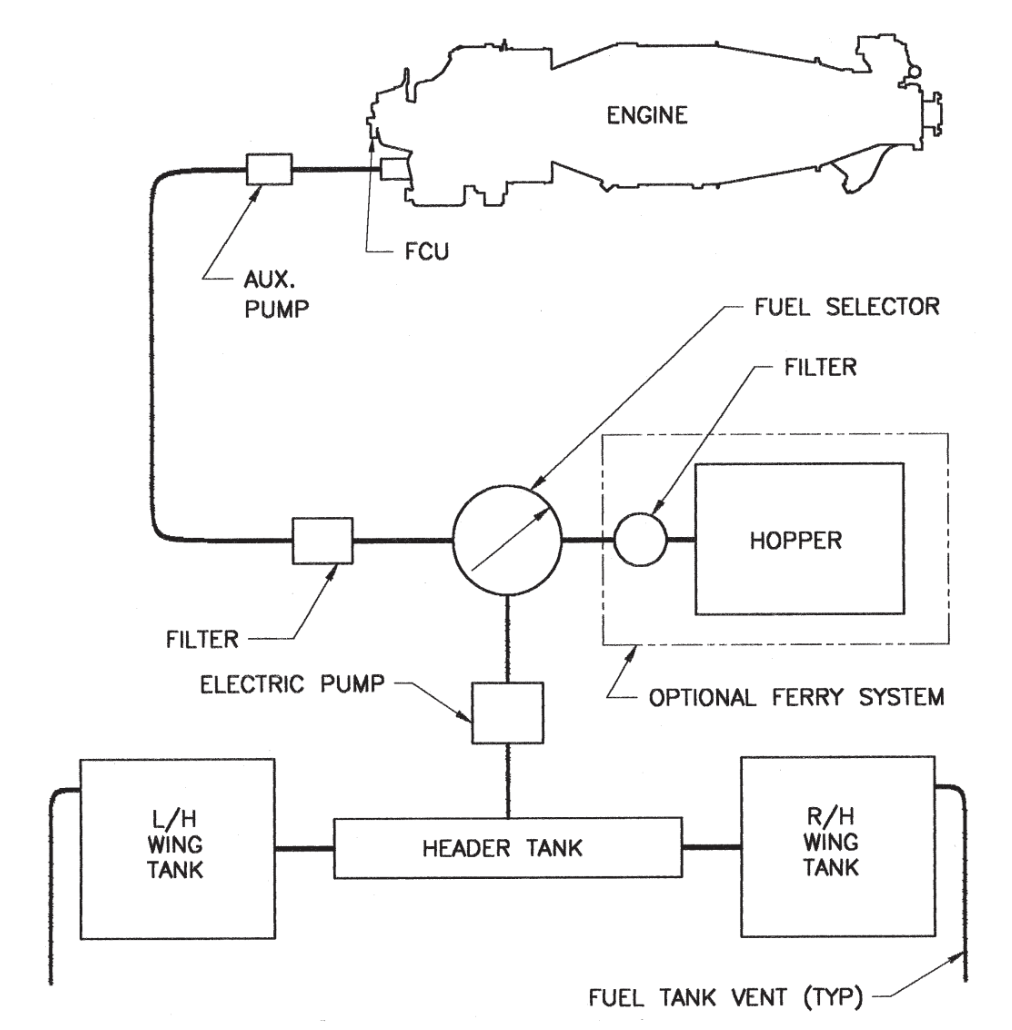
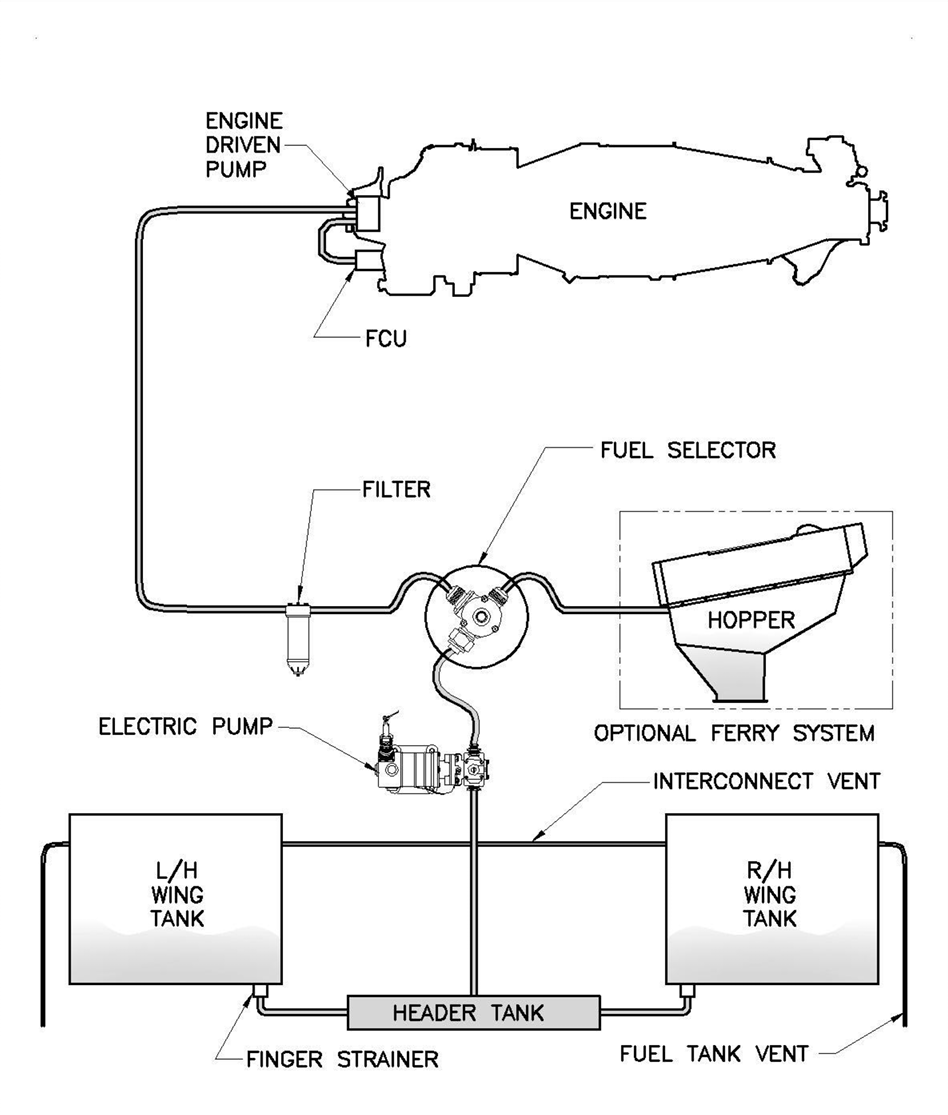
cleanup

diff --git a/html/Description/502/Fuel System_502.html b/html/Description/502/Fuel System_502.html
@@ -1,19 +1,43 @@
 <p>
-Both wing tanks gravity feed into a small header tank which is located behind the chemical hopper and between the wing rear spar attach parts.
-<p></p>
-The fuel valve handle is located within easy reach of the pilot and is marked MAIN and OFF. There is no tank selection option since both wing tanks are interconnected. The fuel valve is placarded in GALLONS USABLE. This is due to the fact that the fuel tank sender does not allow the last 4 gallons to be gauged. The fuel gauge receiver, which is located on the instrument panel, is marked in fractions of usable fuel.
-<p></p>
-Finger strainers of coarse wire mesh are located in each fuel tank. Fuel flows from the wing tanks into the header tank, through the fuel valve and to the airplane firewall. From the firewall, a fuel line is connected to a large fuel filter. This filter does not incorporate fuel filter bypass design feature. A vacuum pressure switch is connected to the outlet side of the filter. If the filter becomes clogged, the switch will close and the FUEL FILTER warning light will illuminate in the cockpit.
-<p></p>
-The fuel lines continue from the firewall mounted fuel filter to the airframe pump, which is mounted on an engine accessory drive pad. This pump is manufactured by Air Tractor and set for CCW rotation. <span style="color: red;">(pump part number has been removed)</span>
-<p></p>
-The fuel lines continue from the airframe pump to the fuel heater body. Lines from that point on are furnished with the engine.
-<p></p>
-There are five quick drains in the fuel system--one in each wing tank, two in the header tank and one in the fuel valve.
-<p></p>
-Each fuel tank has an overboard vent located near the wing tip. With both tanks completely full, it is possible during flight to vent a small amount of fuel overboard by skidding the aircraft or rolling sharply. A check valve located next to the outboard fuel tank wall greatly reduces the amount of fuel vented overboard during maneuvers.
-<p></p>
-Fuel type is called out in the Airplane Flight Manual. Fuel system icing inhibitor (FSII) such as Prist should be added to the fuel at a rate to provide .06% to .15% of FSII by volume when operating below 40 °F. See Figure 1-14 below for details of the fuel system.
-<p style='color:red;'>
-INSERT Figure 1-14 Fuel System Layout
+    Both wing tanks gravity feed into a small header tank which is located behind the chemical hopper and between the
+    wing rear spar attach parts.
 </p>
+<p>
+    The fuel valve handle is located within easy reach of the pilot and is marked MAIN and OFF. There is no tank selection
+    option since both wing tanks are interconnected. The fuel valve is placarded in GALLONS USABLE. This is due to the fact
+    that the fuel tank sender does not allow the last 4 gallons to be gauged. The fuel gauge receiver, which is located on
+    the instrument panel, is marked in fractions of usable fuel.
+</p>
+<p>
+    Finger strainers of coarse wire mesh are located in each fuel tank. Fuel flows from the wing tanks into the header tank,
+    through the fuel valve and to the airplane firewall. From the firewall, a fuel line is connected to a large fuel filter.
+    This filter does not incorporate fuel filter bypass design feature. A vacuum pressure switch is connected to the outlet
+    side of the filter. If the filter becomes clogged, the switch will close and the FUEL FILTER warning light will
+    illuminate in the cockpit.
+</p>
+<p>
+    The fuel lines continue from the firewall mounted fuel filter to the airframe pump, which is mounted on an engine
+    accessory drive pad. This pump is set for CCW rotation.
+</p>
+<p>
+    The fuel lines continue from the airframe pump to the fuel heater body. Lines from that point on are furnished with the
+    engine.
+</p>
+<p>
+    There are five quick drains in the fuel system--one in each wing tank, two in the header tank and one in the fuel valve.
+</p>
+<p>
+    Each fuel tank has an overboard vent located near the wing tip. With both tanks completely full, it is possible during
+    flight to vent a small amount of fuel overboard by skidding the aircraft or rolling sharply. A check valve located next
+    to the outboard fuel tank wall greatly reduces the amount of fuel vented overboard during maneuvers.
+</p>
+<p>
+    Fuel type is called out in the Airplane Flight Manual. Fuel system icing inhibitor (FSII) such as Prist should be added
+    to the fuel at a rate to provide .06% to .15% of FSII by volume when operating below 40 °F. See 
+    <xref fileTarget="img_fig_22.png">cross reference</xref>
+    below for details of the fuel system.
+</p>
+<figure>
+    <img src="img/img_fig_22.png" class="imageCentered_6x6">
+    <figcaption class="centerText">Fuel System Layout</figcaption>
+</figure>

diff --git a/html/Description/502/COCKPIT_502.html b/html/Description/502/COCKPIT_502.html
@@ -3,13 +3,26 @@
     windshield is three pieces, the two corner pieces being Plexiglass while the flat center piece is automotive safety
     plate glass. The AT-504 uses a two-piece Plexiglass windshield. Cockpit entry is made through either of two large
     canopy doors. A wire deflector is incorporated into the windshield support structure. The cockpit layout and details
-    are shown below in <span style="color: red;">Figure 1-3, Figure 1-4 and Figure 1-5</span>.
+    are shown below in 
+    <xref fileTarget="img_502_cockpit_panel.png" xrefType="link">cross reference</xref>, 
+    <xref fileTarget="img_502_cockpit_controls.png" xrefType="link">cross reference</xref>, and 
+    <xref fileTarget="img_502_cockpit_overhead.png" xrefType="link">cross reference</xref>.
 </p>
-<p style='color:red;'>INSERT Figure 1-3 Cockpit - Forward Panel
-<p style='color:red;'>INSERT Figure 1-4 Cockpit - Left-Hand Console</p>
-<p style='color:red;'>INSERT Figure 1-5 Cockpit - Overhead Forward</p>
 
+<figure>
+    <img src="img/img_502_cockpit_panel.png" class="imageCentered_5x4">
+    <figcaption class="centerText">Cockpit - Instrument Panel</figcaption>
+</figure>
 
+<figure>
+    <img src="img/img_502_cockpit_controls.png" class="imageCentered_5x4">
+    <figcaption class="centerText">Cockpit - Left-Hand Console</figcaption>
+</figure>
+
+<figure>
+    <img src="img/img_502_cockpit_overhead.png" class="imageCentered_3x5">
+    <figcaption class="centerText">Cockpit - Overhead Forward</figcaption>
+</figure>
 
 <p>
     The rudder pedals may be adjusted on the ground by removing the “T” pin and sliding the rudder pedals in the